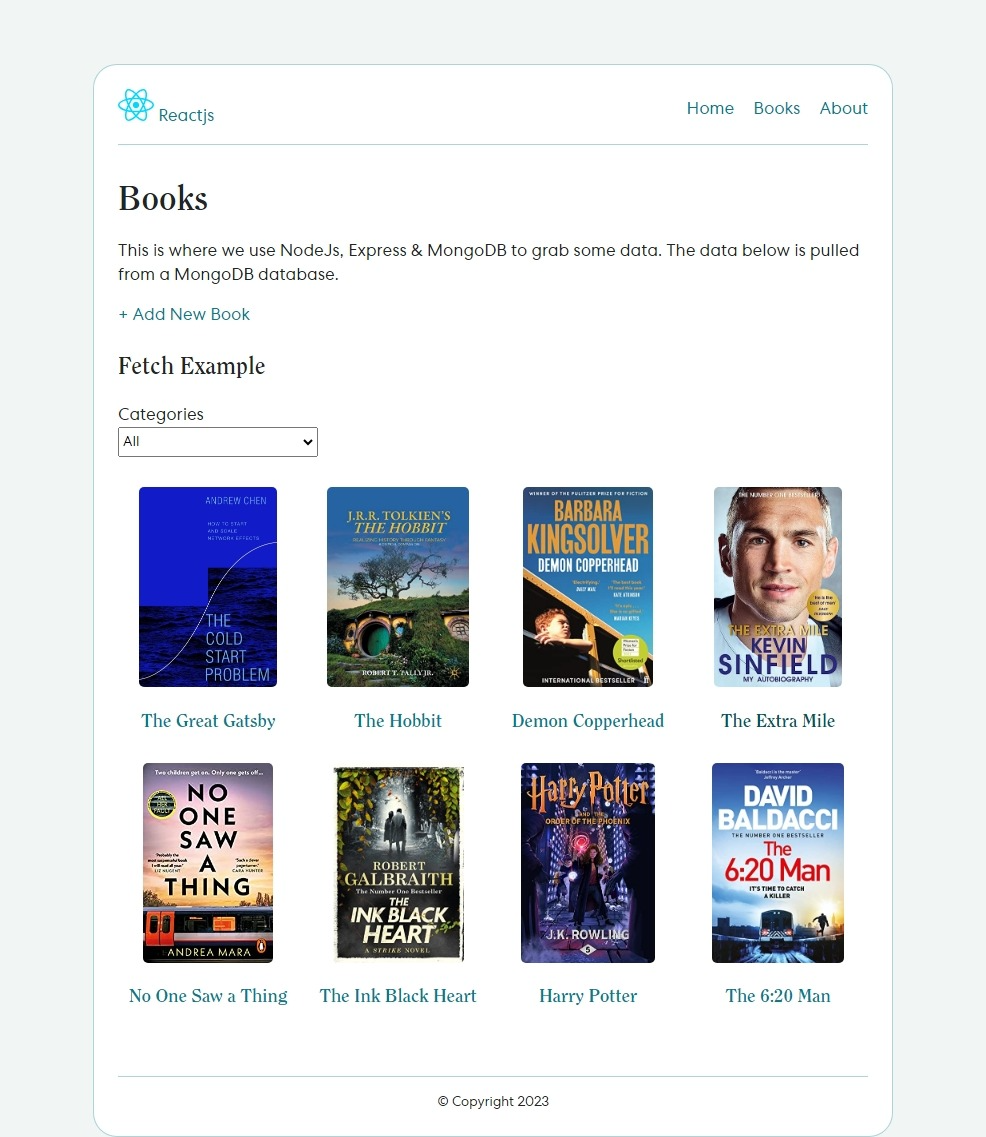
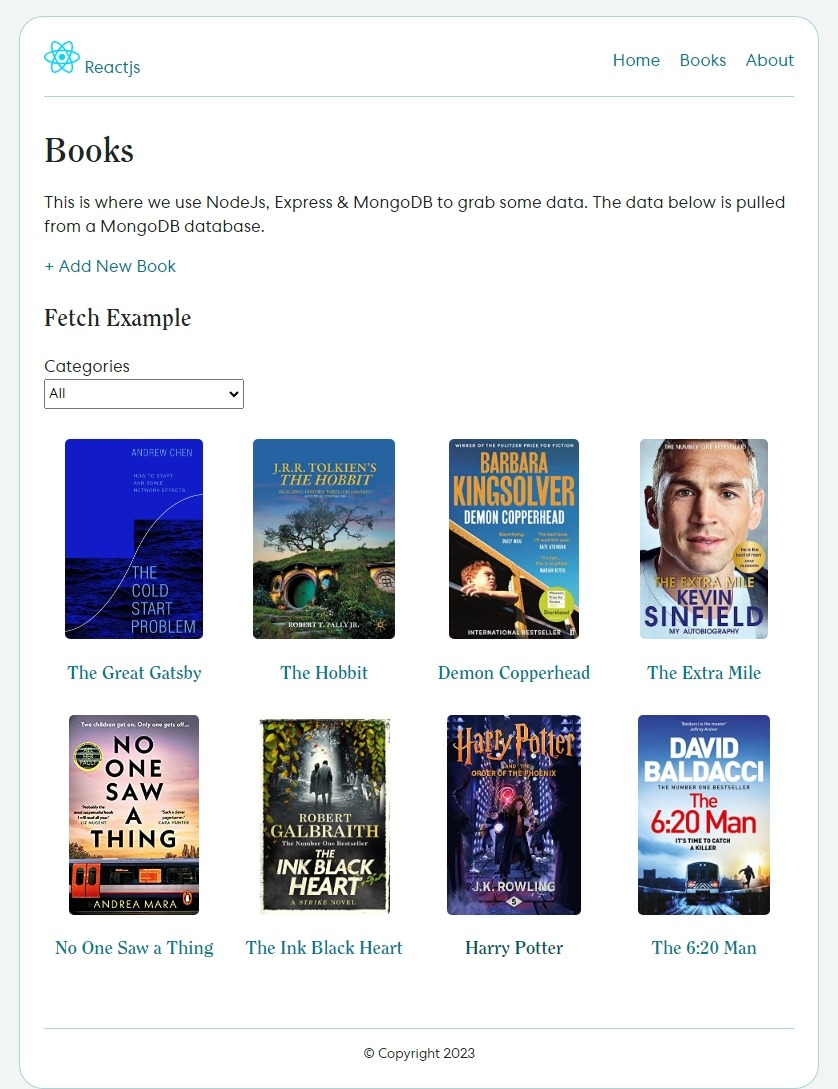
update readme

diff --git a/client/src/index.css b/client/src/index.css
@@ -115,7 +115,7 @@ body {
   margin: 0;
   min-height: 100vh;
   background-color: #f1f6f4;
-  padding-top: 4rem;
+  padding-top: 1rem;
 }
 h1,
 h2,

diff --git a/README.md b/README.md
@@ -2,7 +2,10 @@
 
 A simple mern stack CRUD book application, showcasing the use of NodeJs, Express & MongoDB.
 
-<img src="/client/src/assets/book.png" alt="home" title="homepage">
+[<img width="400" src="/client/src/assets/book.png" alt="home" title="Books">]
+[<img width="400" src="/client/src/assets/edit.png" alt="edit" title="Edit Book">]
+[<img width="400" src="/client/src/assets/single.png" alt="details" title="Book Details">]
+[<img width="400" src="/client/src/assets/update.png" alt="add" title="Add a New Book">]
 
 # 🚀 Getting Started
 
